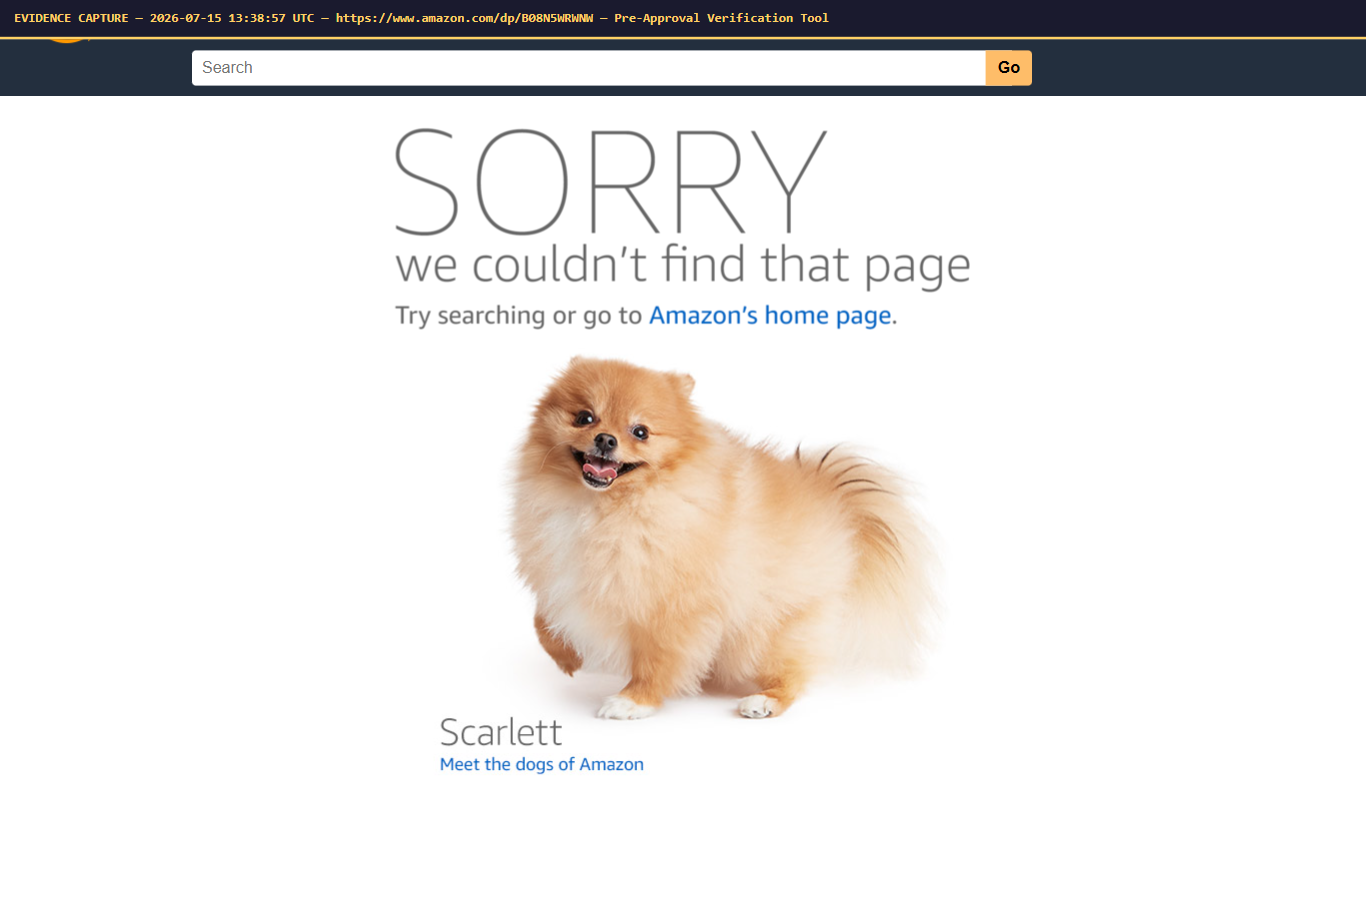
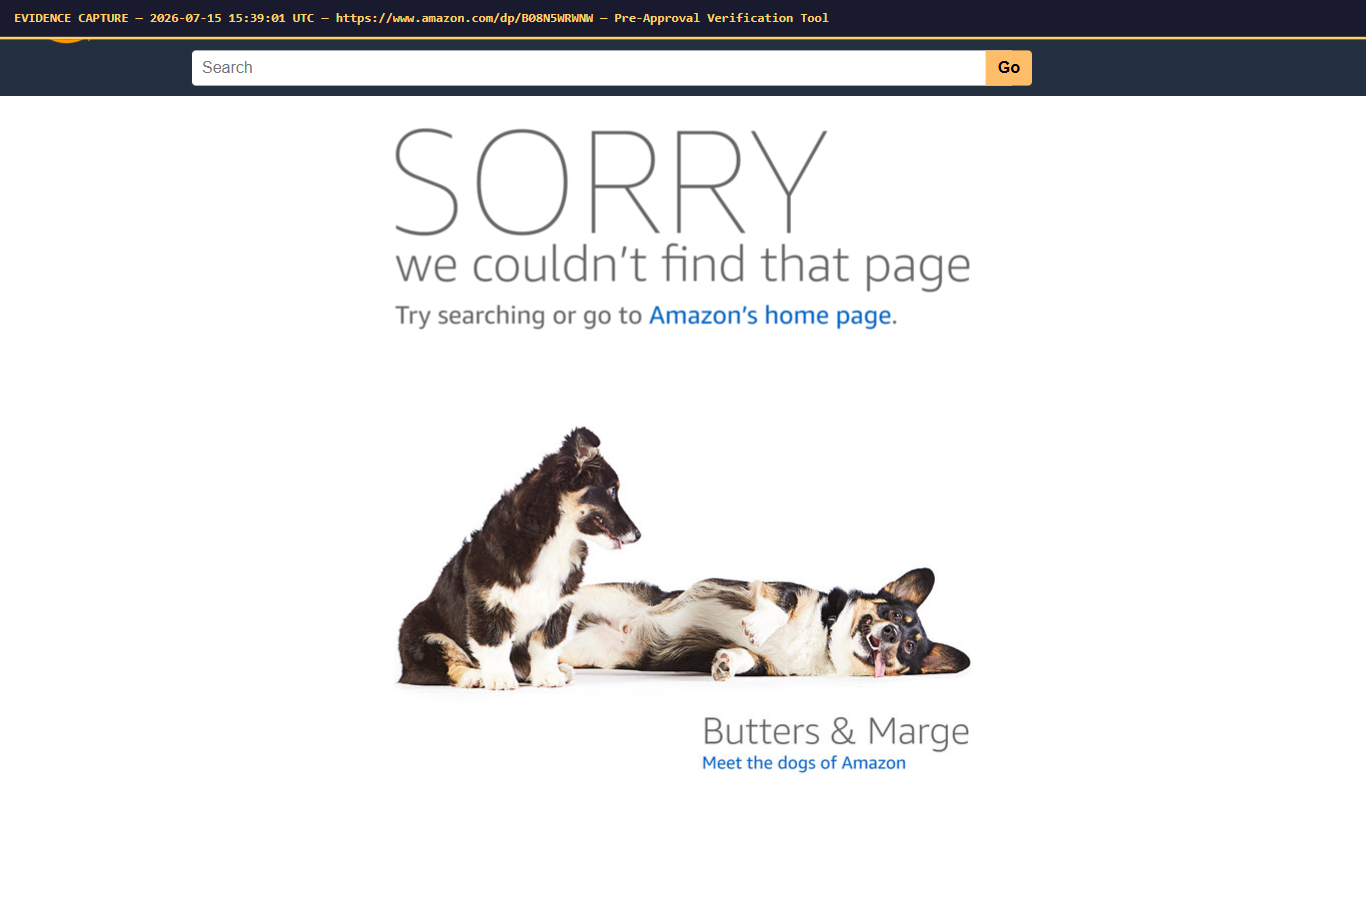
Complete §4.1 field coverage: provider fallback + valued outcome in reports
- pdfParser: when a form has no Provider/Vendor field (HRI/OTPS), derive
  it deterministically from the item link's hostname instead of leaving
  it blank or letting the model guess inconsistently
- Reports (HTML + reviewer UI) now show the extracted valued outcome and
  Life-Plan date in the Internal section
- Refreshed the three committed report bundles

Changed region(s): [[0.2767, 0.3733, 0.7072, 0.8711]]

diff --git a/reports/sample-07-hri-laptop-exclusion-test/index.html b/reports/sample-07-hri-laptop-exclusion-test/index.html
@@ -40,19 +40,19 @@
 <div class="wrap">
   <header class="main">
     <h1>Pre-Approval Website-Verification Report</h1>
-    <div class="sub">Household Related Items (HRI) · Review run 2026-07-15 13:39:04 UTC · Generated by the Pre-Approval Verification Tool (assists the reviewer — final approve/deny decision is made by staff)</div>
+    <div class="sub">Household Related Items (HRI) · Review run 2026-07-15 15:39:08 UTC · Generated by the Pre-Approval Verification Tool (assists the reviewer — final approve/deny decision is made by staff)</div>
   </header>
 
   <div class="card">
     <h2>The request at a glance</h2>
     <table class="kv">
       <tr><td>Participant</td><td>Esther G. (age 33)</td></tr>
-      <tr><td>Provider / vendor</td><td></td></tr>
+      <tr><td>Provider / vendor</td><td>Amazon</td></tr>
       <tr><td>Requested</td><td>Laptop computer</td></tr>
       <tr><td>Website reviewed</td><td><a href="https://www.amazon.com/dp/B08N5WRWNW" target="_blank">https://www.amazon.com/dp/B08N5WRWNW</a></td></tr>
       <tr><td>Category / checklist</td><td>Household Related Items (HRI)</td></tr>
       <tr><td>Fee stated on form</td><td></td></tr>
-      <tr><td>Review date</td><td>2026-07-15 13:39:04 UTC</td></tr>
+      <tr><td>Review date</td><td>2026-07-15 15:39:08 UTC</td></tr>
       <tr><td>FI coordinator / broker</td><td>Leah Stern / Sarah Klein</td></tr>
     </table>
   </div>
@@ -66,7 +66,7 @@
       <tr><td>Rate on application</td><td></td></tr>
       <tr><td>Rate found on website</td><td>not published</td></tr>
       <tr><td>Verdict</td><td><span class="verdict" style="background:#e9a820">not published</span></td></tr>
-      <tr><td>Note</td><td>No website content was captured, so no rate could be found or compared.</td></tr>
+      <tr><td>Note</td><td>No website pages were captured, so no rate could be found or compared.</td></tr>
     </table>
   </div>
 
@@ -78,7 +78,7 @@
       <tr>
         <td><span class="badge" style="background:#e9a820">Needs Review</span></td>
         <td><strong>The item exists at the linked page, with a visible price</strong>
-          <div class="note">No page content was captured, so the existence of the item and its price could not be verified.</div>
+          <div class="note">No page text was captured, so the existence of the item and its price could not be verified.</div>
           
           
           
@@ -88,7 +88,7 @@
       </tr><tr>
         <td><span class="badge" style="background:#e63946">Not Met</span></td>
         <td><strong>Item is plausibly NOT on the IDGS/HRI exclusion list</strong>
-          <div class="note">A laptop computer falls under the 'Computer Hardware' exclusion category.</div>
+          <div class="note">The requested item, 'Laptop computer', is considered 'Computer Hardware' which is explicitly listed on the HRI exclusion list.</div>
           
           
           
@@ -98,7 +98,7 @@
       </tr><tr>
         <td><span class="badge" style="background:#e9a820">Needs Review</span></td>
         <td><strong>Safety features described on the form are supported by the product page</strong>
-          <div class="note">The form did not describe any safety features. No page content was captured to verify any potential safety features.</div>
+          <div class="note">The form did not describe any safety features for the requested item, so there was nothing to verify on the product page.</div>
           
           
           
@@ -108,7 +108,7 @@
       </tr><tr>
         <td><span class="badge" style="background:#e9a820">Needs Review</span></td>
         <td><strong>Item price is within the $1,500/budget-year cap</strong>
-          <div class="note">No page content was captured, so the item's price could not be determined or compared against the $1,500 cap.</div>
+          <div class="note">No page text was captured, so the item's price could not be determined or compared against the $1,500 cap.</div>
           
           
           
@@ -122,7 +122,11 @@
 
   <div class="card">
     <h2>Internal items — not website-verifiable (left for the human reviewer)</h2>
-    <p class="small muted">These questions depend on internal data (budget, Life Plan, other funded services). The tool does not guess them; the answers shown are what was ticked on the form.</p>
+    <p class="small muted">These items depend on internal data (budget, Life Plan, other funded services). The tool does not guess them; the answers shown are what the form says.</p>
+    <table class="kv">
+      <tr><td>Valued outcome (from Life Plan)</td><td>Esther will increase independence and community connection through access to online learning.</td></tr>
+      <tr><td>Life-Plan date</td><td>04/18/2026</td></tr>
+    </table>
     <div class="tablewrap">
     <table>
       <tr><th>Status</th><th>Form question</th><th>Answer on form</th></tr>
@@ -139,12 +143,12 @@
     <figure>
         <a href="screenshots/page-1-fullpage.png" target="_blank"><img src="screenshots/page-1-fullpage.png" alt="Full-page capture of https://www.amazon.com/dp/B08N5WRWNW"></a>
         <figcaption><a href="https://www.amazon.com/dp/B08N5WRWNW" target="_blank">https://www.amazon.com/dp/B08N5WRWNW</a><br>
-        <span class="muted">Captured 2026-07-15T13:38:57.679Z — ⚠ page appeared bot-blocked</span></figcaption>
+        <span class="muted">Captured 2026-07-15T15:39:01.959Z — ⚠ page appeared bot-blocked</span></figcaption>
       </figure>
   </div>
 
   <footer>
-    Generated 2026-07-15 13:39:04 UTC · Model: gemini-2.5-flash · Source form: Sample-07---HRI-Laptop---exclusion-test.pdf<br>
+    Generated 2026-07-15 15:39:08 UTC · Model: gemini-2.5-flash · Source form: Sample-07---HRI-Laptop---exclusion-test.pdf<br>
     This tool assists the Pre-Approvals reviewer. It never approves or denies; honest “couldn’t verify” results are expected.
   </footer>
 </div>

diff --git a/backend/pdfParser.js b/backend/pdfParser.js
@@ -102,6 +102,16 @@ In missingInfo, report ONLY things that would block a website review: no URL, un
     parsed.url = "https://" + parsed.url;
   }
   if (!keys.includes(parsed.category)) parsed.category = "unknown";
+  // Some forms (HRI/OTPS) have no Provider/Vendor field — derive a
+  // deterministic vendor from the item link instead of leaving it blank
+  // (or letting the model guess inconsistently).
+  if (!(parsed.providerName || "").trim() && parsed.url) {
+    try {
+      parsed.providerName = `${new URL(parsed.url).hostname.replace(/^www\./, "")} (inferred from item link)`;
+    } catch {
+      /* unparseable URL — leave blank */
+    }
+  }
   parsed.missingInfo = parsed.missingInfo || [];
   if (!parsed.url) parsed.missingInfo.push("No website URL found on the form - reviewer must supply one.");
   if (parsed.category === "unknown") parsed.missingInfo.push("Form category is ambiguous - reviewer must pick the checklist.");

diff --git a/backend/reportGenerator.js b/backend/reportGenerator.js
@@ -188,7 +188,15 @@ export function renderHtml(state) {
 
   <div class="card">
     <h2>Internal items — not website-verifiable (left for the human reviewer)</h2>
-    <p class="small muted">These questions depend on internal data (budget, Life Plan, other funded services). The tool does not guess them; the answers shown are what was ticked on the form.</p>
+    <p class="small muted">These items depend on internal data (budget, Life Plan, other funded services). The tool does not guess them; the answers shown are what the form says.</p>
+    ${
+      parsed.valuedOutcome
+        ? `<table class="kv">
+      <tr><td>Valued outcome (from Life Plan)</td><td>${esc(parsed.valuedOutcome)}</td></tr>
+      <tr><td>Life-Plan date</td><td>${esc(parsed.lpDate)}</td></tr>
+    </table>`
+        : ""
+    }
     <div class="tablewrap">
     <table>
       <tr><th>Status</th><th>Form question</th><th>Answer on form</th></tr>

diff --git a/client/src/App.jsx b/client/src/App.jsx
@@ -262,6 +262,12 @@ function ReportView({ reportId, onBack, onRunStarted }) {
         <div className="panel">
           <h3>Internal — not website-verifiable ({internals.length})</h3>
           <p className="hint">Left for the human reviewer; answers shown are what the form says.</p>
+          {parsed.valuedOutcome && (
+            <p>
+              <Badge status="Internal" /> Valued outcome (from Life Plan): {parsed.valuedOutcome}
+              {parsed.lpDate && <span className="hint"> — LP date {parsed.lpDate}</span>}
+            </p>
+          )}
           <ul className="internallist">
             {internals.map((i, idx) => (
               <li key={idx}>

diff --git a/reports/sample-01-community-class-gallopnyc/index.html b/reports/sample-01-community-class-gallopnyc/index.html
@@ -162,7 +162,11 @@
 
   <div class="card">
     <h2>Internal items — not website-verifiable (left for the human reviewer)</h2>
-    <p class="small muted">These questions depend on internal data (budget, Life Plan, other funded services). The tool does not guess them; the answers shown are what was ticked on the form.</p>
+    <p class="small muted">These items depend on internal data (budget, Life Plan, other funded services). The tool does not guess them; the answers shown are what the form says.</p>
+    <table class="kv">
+      <tr><td>Valued outcome (from Life Plan)</td><td>Aaron will build confidence and community engagement through structured recreational activities in an integrated, public setting.</td></tr>
+      <tr><td>Life-Plan date</td><td>03/14/2026</td></tr>
+    </table>
     <div class="tablewrap">
     <table>
       <tr><th>Status</th><th>Form question</th><th>Answer on form</th></tr>

diff --git a/reports/sample-10-appeal-gracie-barra-jiu-jitsu/index.html b/reports/sample-10-appeal-gracie-barra-jiu-jitsu/index.html
@@ -167,7 +167,11 @@
 
   <div class="card">
     <h2>Internal items — not website-verifiable (left for the human reviewer)</h2>
-    <p class="small muted">These questions depend on internal data (budget, Life Plan, other funded services). The tool does not guess them; the answers shown are what was ticked on the form.</p>
+    <p class="small muted">These items depend on internal data (budget, Life Plan, other funded services). The tool does not guess them; the answers shown are what the form says.</p>
+    <table class="kv">
+      <tr><td>Valued outcome (from Life Plan)</td><td>Yosef will improve physical fitness, self-regulation, and social participation through a structured martial-arts class.</td></tr>
+      <tr><td>Life-Plan date</td><td>02/09/2026</td></tr>
+    </table>
     <div class="tablewrap">
     <table>
       <tr><th>Status</th><th>Form question</th><th>Answer on form</th></tr>